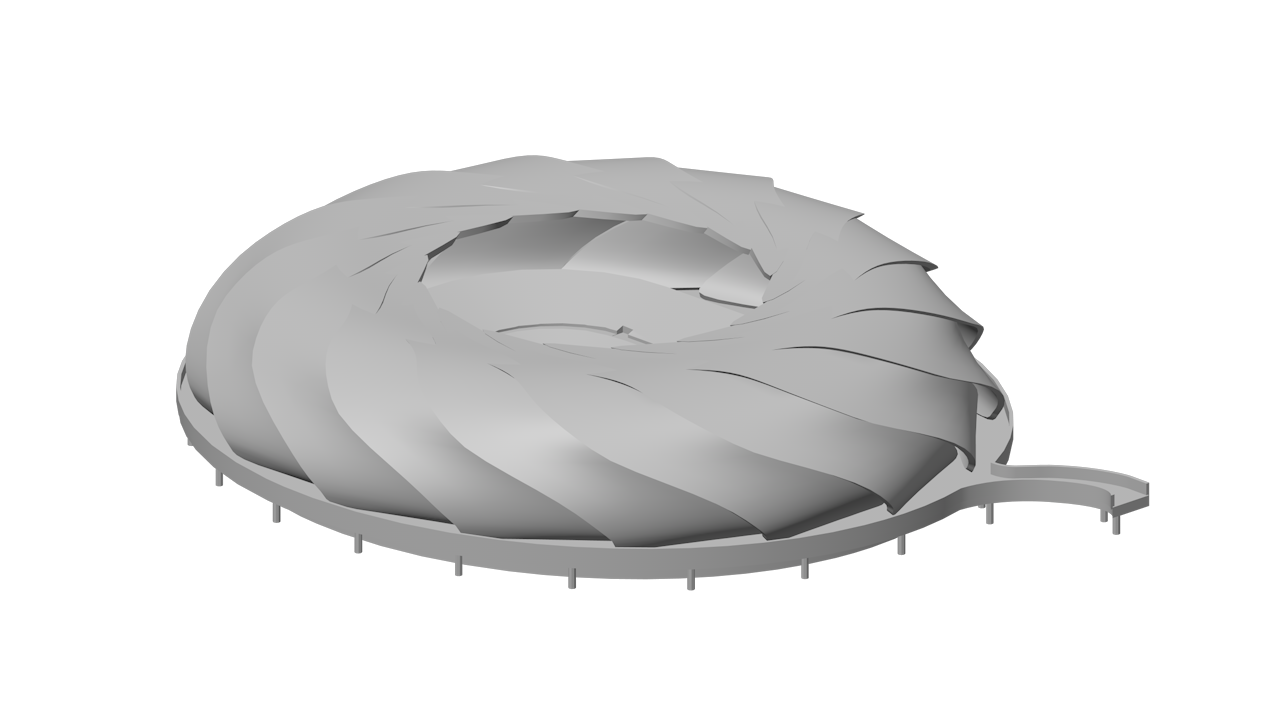
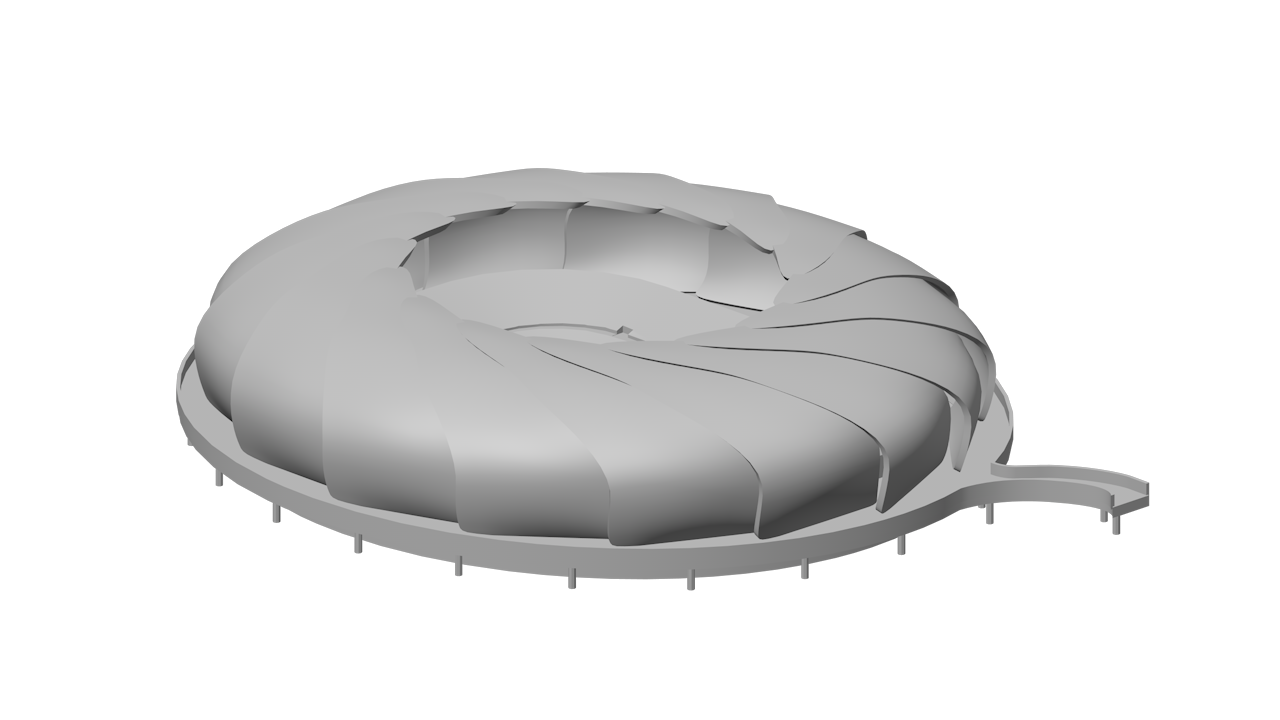
Update KSA-10 work model + image

diff --git a/docs/index.html b/docs/index.html
@@ -2377,7 +2377,7 @@ body.density-compact .card-section {
     
 
     <footer class="card-footer">
-      <div class="ref-links"><button class="ref-link ref-link--3d model-btn" data-models="[{&quot;file&quot;: &quot;KSA-10.glb&quot;, &quot;label&quot;: &quot;기본&quot;, &quot;mb&quot;: 0.5, &quot;tris&quot;: 15996, &quot;_textured&quot;: false}]" data-start="0"><svg width="11" height="11" viewBox="0 0 13 13" fill="none"><path d="M6.5 1 L11.5 3.6 L11.5 9.4 L6.5 12 L1.5 9.4 L1.5 3.6 Z" stroke="currentColor" stroke-width="1.1" stroke-linejoin="round"/><path d="M1.5 3.6 L6.5 6.3 L11.5 3.6 M6.5 6.3 L6.5 12" stroke="currentColor" stroke-width="1.1" stroke-linejoin="round"/></svg><span>3D Viewer</span></button><a class="ref-link" href="https://maps.app.goo.gl/BGJ4bvLCrBiceDsG9" target="_blank" rel="noopener"><span>Google Maps</span><svg width="10" height="10" viewBox="0 0 10 10"><path d="M2 8 L8 2 M3.5 2 L8 2 L8 6.5" stroke="currentColor" stroke-width="1" fill="none" stroke-linecap="square"/></svg></a><a class="ref-link" href="https://earth.google.com/web/@26.365391,50.180941,0a,1500d,20y,0h,0t,0r" target="_blank" rel="noopener"><span>Google Earth</span><svg width="10" height="10" viewBox="0 0 10 10"><path d="M2 8 L8 2 M3.5 2 L8 2 L8 6.5" stroke="currentColor" stroke-width="1" fill="none" stroke-linecap="square"/></svg></a><a class="ref-link" href="https://www.openstreetmap.org/?mlat=26.365391&amp;mlon=50.180941#map=19/26.365391/50.180941" target="_blank" rel="noopener"><span>OSM (footprint)</span><svg width="10" height="10" viewBox="0 0 10 10"><path d="M2 8 L8 2 M3.5 2 L8 2 L8 6.5" stroke="currentColor" stroke-width="1" fill="none" stroke-linecap="square"/></svg></a><a class="ref-link" href="https://www.google.com/search?tbm=isch&amp;q=Aramco+Stadium+Al+Khobar+design" target="_blank" rel="noopener"><span>Google 이미지</span><svg width="10" height="10" viewBox="0 0 10 10"><path d="M2 8 L8 2 M3.5 2 L8 2 L8 6.5" stroke="currentColor" stroke-width="1" fill="none" stroke-linecap="square"/></svg></a><a class="ref-link" href="https://www.google.com/search?q=Aramco+Stadium+Al+Khobar+design+render" target="_blank" rel="noopener"><span>렌더링 검색</span><svg width="10" height="10" viewBox="0 0 10 10"><path d="M2 8 L8 2 M3.5 2 L8 2 L8 6.5" stroke="currentColor" stroke-width="1" fill="none" stroke-linecap="square"/></svg></a><a class="ref-link" href="https://stadiumdb.com/designs/ksa/aramco_stadium" target="_blank" rel="noopener"><span>StadiumDB</span><svg width="10" height="10" viewBox="0 0 10 10"><path d="M2 8 L8 2 M3.5 2 L8 2 L8 6.5" stroke="currentColor" stroke-width="1" fill="none" stroke-linecap="square"/></svg></a><a class="ref-link" href="https://populous.com/projects" target="_blank" rel="noopener"><span>Populous</span><svg width="10" height="10" viewBox="0 0 10 10"><path d="M2 8 L8 2 M3.5 2 L8 2 L8 6.5" stroke="currentColor" stroke-width="1" fill="none" stroke-linecap="square"/></svg></a></div>
+      <div class="ref-links"><button class="ref-link ref-link--3d model-btn" data-models="[{&quot;file&quot;: &quot;KSA-10.glb&quot;, &quot;label&quot;: &quot;기본&quot;, &quot;mb&quot;: 0.68, &quot;tris&quot;: 24572, &quot;_textured&quot;: false}]" data-start="0"><svg width="11" height="11" viewBox="0 0 13 13" fill="none"><path d="M6.5 1 L11.5 3.6 L11.5 9.4 L6.5 12 L1.5 9.4 L1.5 3.6 Z" stroke="currentColor" stroke-width="1.1" stroke-linejoin="round"/><path d="M1.5 3.6 L6.5 6.3 L11.5 3.6 M6.5 6.3 L6.5 12" stroke="currentColor" stroke-width="1.1" stroke-linejoin="round"/></svg><span>3D Viewer</span></button><a class="ref-link" href="https://maps.app.goo.gl/BGJ4bvLCrBiceDsG9" target="_blank" rel="noopener"><span>Google Maps</span><svg width="10" height="10" viewBox="0 0 10 10"><path d="M2 8 L8 2 M3.5 2 L8 2 L8 6.5" stroke="currentColor" stroke-width="1" fill="none" stroke-linecap="square"/></svg></a><a class="ref-link" href="https://earth.google.com/web/@26.365391,50.180941,0a,1500d,20y,0h,0t,0r" target="_blank" rel="noopener"><span>Google Earth</span><svg width="10" height="10" viewBox="0 0 10 10"><path d="M2 8 L8 2 M3.5 2 L8 2 L8 6.5" stroke="currentColor" stroke-width="1" fill="none" stroke-linecap="square"/></svg></a><a class="ref-link" href="https://www.openstreetmap.org/?mlat=26.365391&amp;mlon=50.180941#map=19/26.365391/50.180941" target="_blank" rel="noopener"><span>OSM (footprint)</span><svg width="10" height="10" viewBox="0 0 10 10"><path d="M2 8 L8 2 M3.5 2 L8 2 L8 6.5" stroke="currentColor" stroke-width="1" fill="none" stroke-linecap="square"/></svg></a><a class="ref-link" href="https://www.google.com/search?tbm=isch&amp;q=Aramco+Stadium+Al+Khobar+design" target="_blank" rel="noopener"><span>Google 이미지</span><svg width="10" height="10" viewBox="0 0 10 10"><path d="M2 8 L8 2 M3.5 2 L8 2 L8 6.5" stroke="currentColor" stroke-width="1" fill="none" stroke-linecap="square"/></svg></a><a class="ref-link" href="https://www.google.com/search?q=Aramco+Stadium+Al+Khobar+design+render" target="_blank" rel="noopener"><span>렌더링 검색</span><svg width="10" height="10" viewBox="0 0 10 10"><path d="M2 8 L8 2 M3.5 2 L8 2 L8 6.5" stroke="currentColor" stroke-width="1" fill="none" stroke-linecap="square"/></svg></a><a class="ref-link" href="https://stadiumdb.com/designs/ksa/aramco_stadium" target="_blank" rel="noopener"><span>StadiumDB</span><svg width="10" height="10" viewBox="0 0 10 10"><path d="M2 8 L8 2 M3.5 2 L8 2 L8 6.5" stroke="currentColor" stroke-width="1" fill="none" stroke-linecap="square"/></svg></a><a class="ref-link" href="https://populous.com/projects" target="_blank" rel="noopener"><span>Populous</span><svg width="10" height="10" viewBox="0 0 10 10"><path d="M2 8 L8 2 M3.5 2 L8 2 L8 6.5" stroke="currentColor" stroke-width="1" fill="none" stroke-linecap="square"/></svg></a></div>
     </footer>
   </div>
 </article>

diff --git a/docs/progress/index.html b/docs/progress/index.html
@@ -587,7 +587,7 @@ button { font-family: inherit; cursor: pointer; border: none; background: none; 
     <a class="fc-ref" href="../#card-10" title="레퍼런스 카드 보기">↗</a>
   </header>
   <div class="fc-cover"><img src="assets/10-1.png" alt="AL KHOBAR New Stadium (Aramco Stadium)" loading="lazy"></div>
-  <div class="fc-actions"><button class="model-btn fc-3d" data-models="[{&quot;file&quot;: &quot;KSA-10.glb&quot;, &quot;label&quot;: &quot;기본&quot;, &quot;mb&quot;: 0.5, &quot;tris&quot;: 15996, &quot;_textured&quot;: false}]" data-start="0"><svg width="13" height="13" viewBox="0 0 13 13" fill="none" aria-hidden="true"><path d="M6.5 1 L11.5 3.6 L11.5 9.4 L6.5 12 L1.5 9.4 L1.5 3.6 Z" stroke="currentColor" stroke-width="1.1" stroke-linejoin="round"/><path d="M1.5 3.6 L6.5 6.3 L11.5 3.6 M6.5 6.3 L6.5 12" stroke="currentColor" stroke-width="1.1" stroke-linejoin="round"/></svg><span>3D Viewer</span></button></div>
+  <div class="fc-actions"><button class="model-btn fc-3d" data-models="[{&quot;file&quot;: &quot;KSA-10.glb&quot;, &quot;label&quot;: &quot;기본&quot;, &quot;mb&quot;: 0.68, &quot;tris&quot;: 24572, &quot;_textured&quot;: false}]" data-start="0"><svg width="13" height="13" viewBox="0 0 13 13" fill="none" aria-hidden="true"><path d="M6.5 1 L11.5 3.6 L11.5 9.4 L6.5 12 L1.5 9.4 L1.5 3.6 Z" stroke="currentColor" stroke-width="1.1" stroke-linejoin="round"/><path d="M1.5 3.6 L6.5 6.3 L11.5 3.6 M6.5 6.3 L6.5 12" stroke="currentColor" stroke-width="1.1" stroke-linejoin="round"/></svg><span>3D Viewer</span></button></div>
   
   <div class="fc-shots"><div class="fc-shot"><img src="assets/10-1.png" alt="AL KHOBAR New Stadium (Aramco Stadium)" loading="lazy"><a class="shot-dl" href="assets/10-1.png" download title="10-1.png 다운로드"><svg width="11" height="11" viewBox="0 0 11 11" fill="none"><path d="M5.5 1 L5.5 7 M3 5 L5.5 7.5 L8 5 M2 9.5 L9 9.5" stroke="currentColor" stroke-width="1.2" stroke-linecap="round" stroke-linejoin="round"/></svg></a></div></div>
 </article>